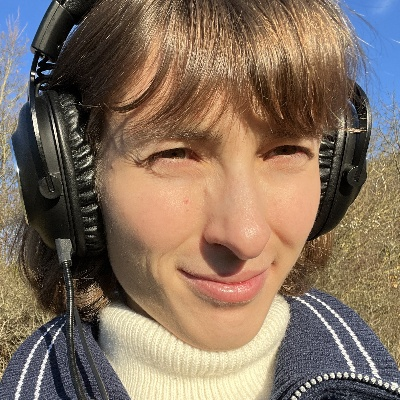
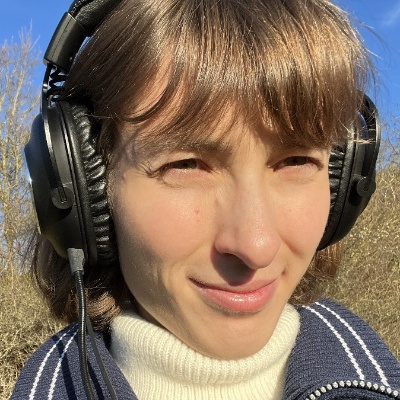
.ds_store ignore added and smth else

diff --git a/face_detection.py b/face_detection.py
@@ -13,9 +13,11 @@ print("Benutzte Python-Version:", sys.version)
 print("Python-Pfad:", sys.executable)
 
 
+global_start_time = time.time()
+
 # --------------- read images from input folder + define the output folder
 pictures = os.listdir("input")
-print(f"Pics: {pictures}")
+#print(f"Pics: {pictures}")
 
 output_folder = "output"
 
@@ -36,9 +38,33 @@ for pic in pictures:
      new_path = os.path.join("input", new_name)
      cv2.imwrite(new_path, image_cv)
      os.remove(full_path)
+    elif pic.lower().endswith(".ds_store"): # ignore git .ds_store
+       os.remove(os.path.join("input", pic))
+
 
 pictures = os.listdir("input")
 print(f"Pics: {pictures}")
+
+
+# ----------- DOWNSAMPLING THE PICTURES
+# separate loop just for debugging reasons
+print("Downsampling phase...")
+for pic in pictures:
+     print(f"pic {pic} start")  
+    
+     full_path = os.path.join("input", pic)
+     image = cv2.imread(full_path)
+     h, w = image.shape [:2]
+     #print( h,w)
+
+     if min(h,w) > 1000:
+        #print(f"Downsampling the image {pic}")
+        downsample_factor = 1000/min(h,w)
+        new_h, new_w = int(h*downsample_factor), int(w*downsample_factor)
+        new_image = cv2.resize(image, (new_w, new_h), interpolation=cv2.INTER_LINEAR)
+        cv2.imwrite(full_path, new_image)
+print("Downsampling abgeschlossen!")
+   
 
 
 # -------------- Face Recognition
@@ -51,14 +77,14 @@ for i, pic in enumerate(pictures):
      
      start = time.time()
      face = face_recognition.face_locations(image, model="cnn")
-     print(f"Gesichtserkennung abgeschlossen. {len(face)} Gesichter gefunden.")
+     #print(f"Gesichtserkennung abgeschlossen. {len(face)} Gesichter gefunden.")
 
      # HIER AM BESTEN IN DEBUG FILE SCHREIBEN!!!!!!!!!!!!!!
      if not face:
         print(f"Picture {pic} muss manuell verarbeitet werden!")
 
-     ende = time.time()
-     print(f"Gesichtserkennng Time: {ende - start:.4f} seconds")
+     #ende = time.time()
+     #print(f"Gesichtserkennng Time: {ende - start:.4f} seconds")
      
      start = time.time()
      
@@ -78,11 +104,13 @@ for i, pic in enumerate(pictures):
       face_resized = cv2.resize(face, (400, 400), interpolation=cv2.INTER_LINEAR)
 
       cv2.imwrite(os.path.join(output_folder, pic), face_resized)
-      print(f"Gesicht {i} gespeichert mit vergrößertem Bereich.")
+      #print(f"Gesicht {i} gespeichert mit vergrößertem Bereich.")
 
       ende = time.time()
-      print(f"Ausschneiden Time: {ende - start:.4f} seconds")
+      #print(f"Ausschneiden Time: {ende - start:.4f} seconds")
       
    
 
 
+global_end_time = time.time()
+print(f"GlobalTime: {global_end_time - global_start_time} seconds")
